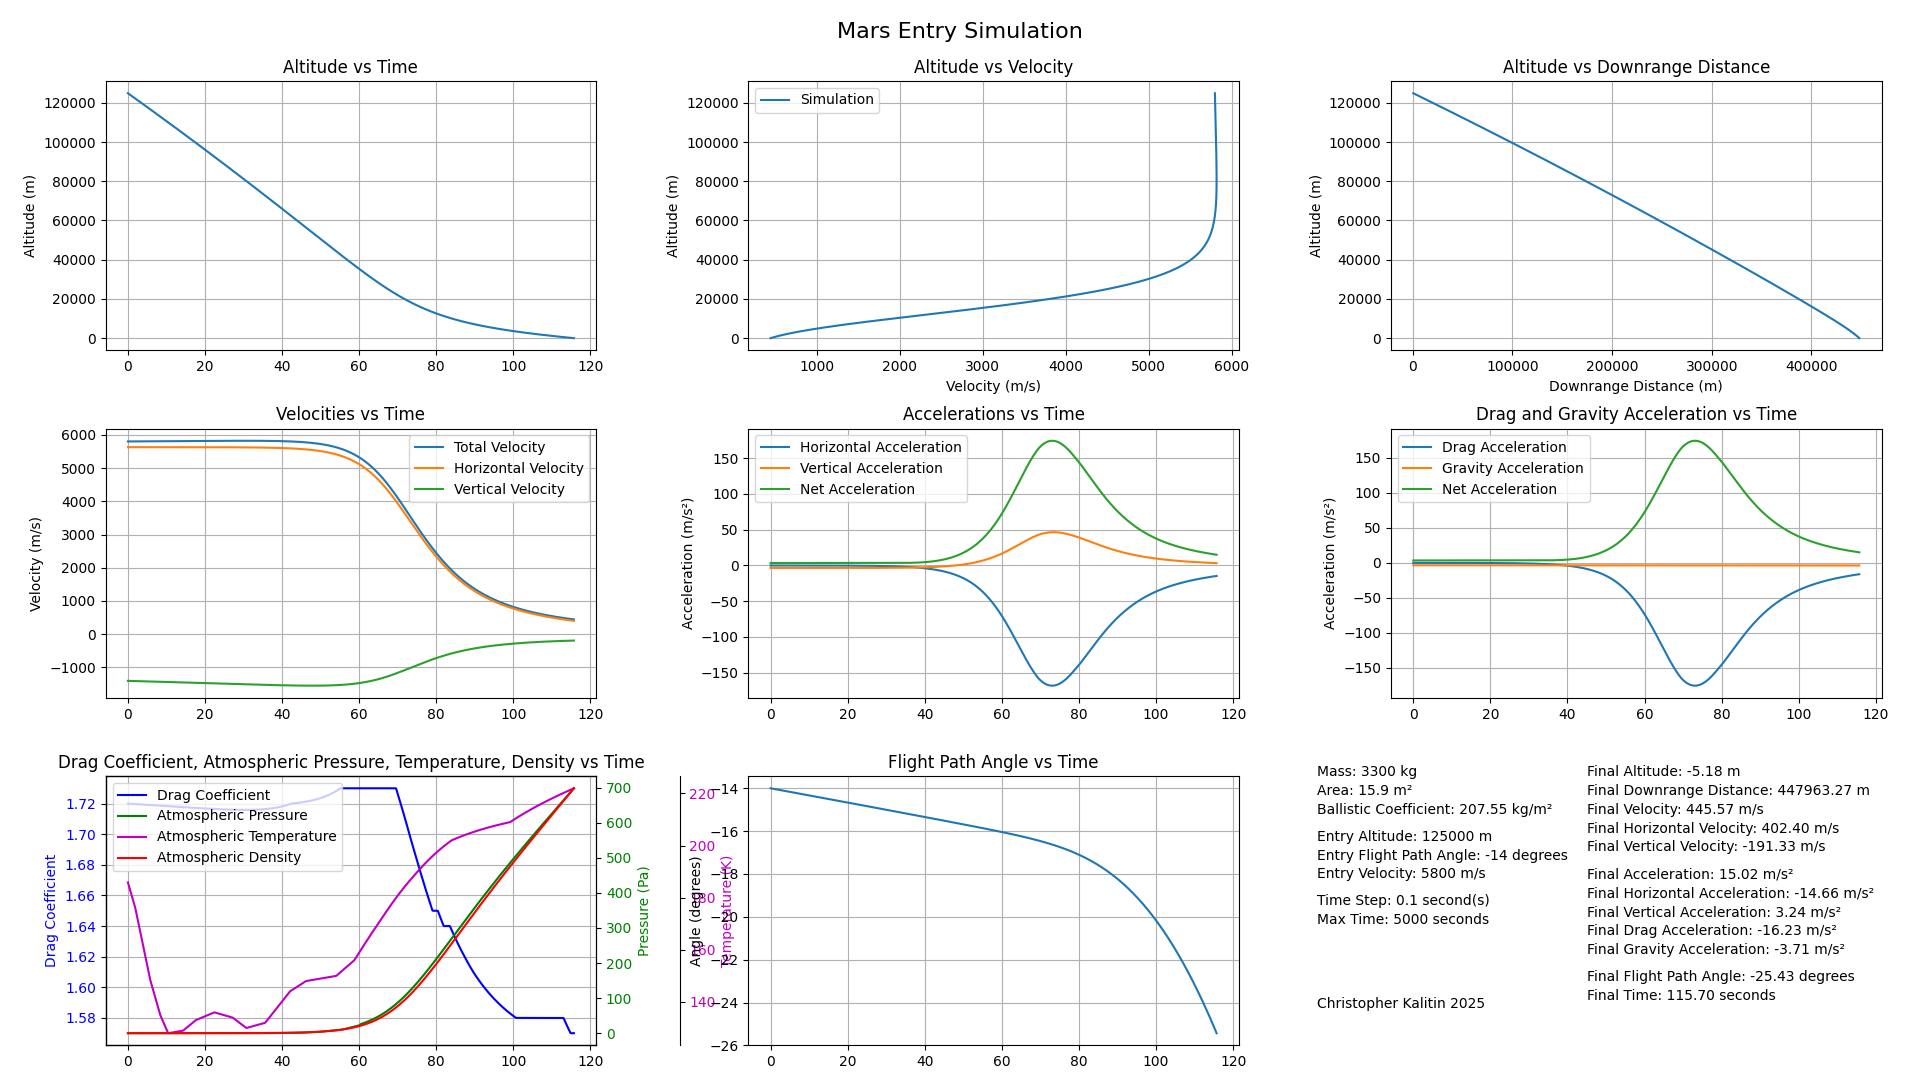
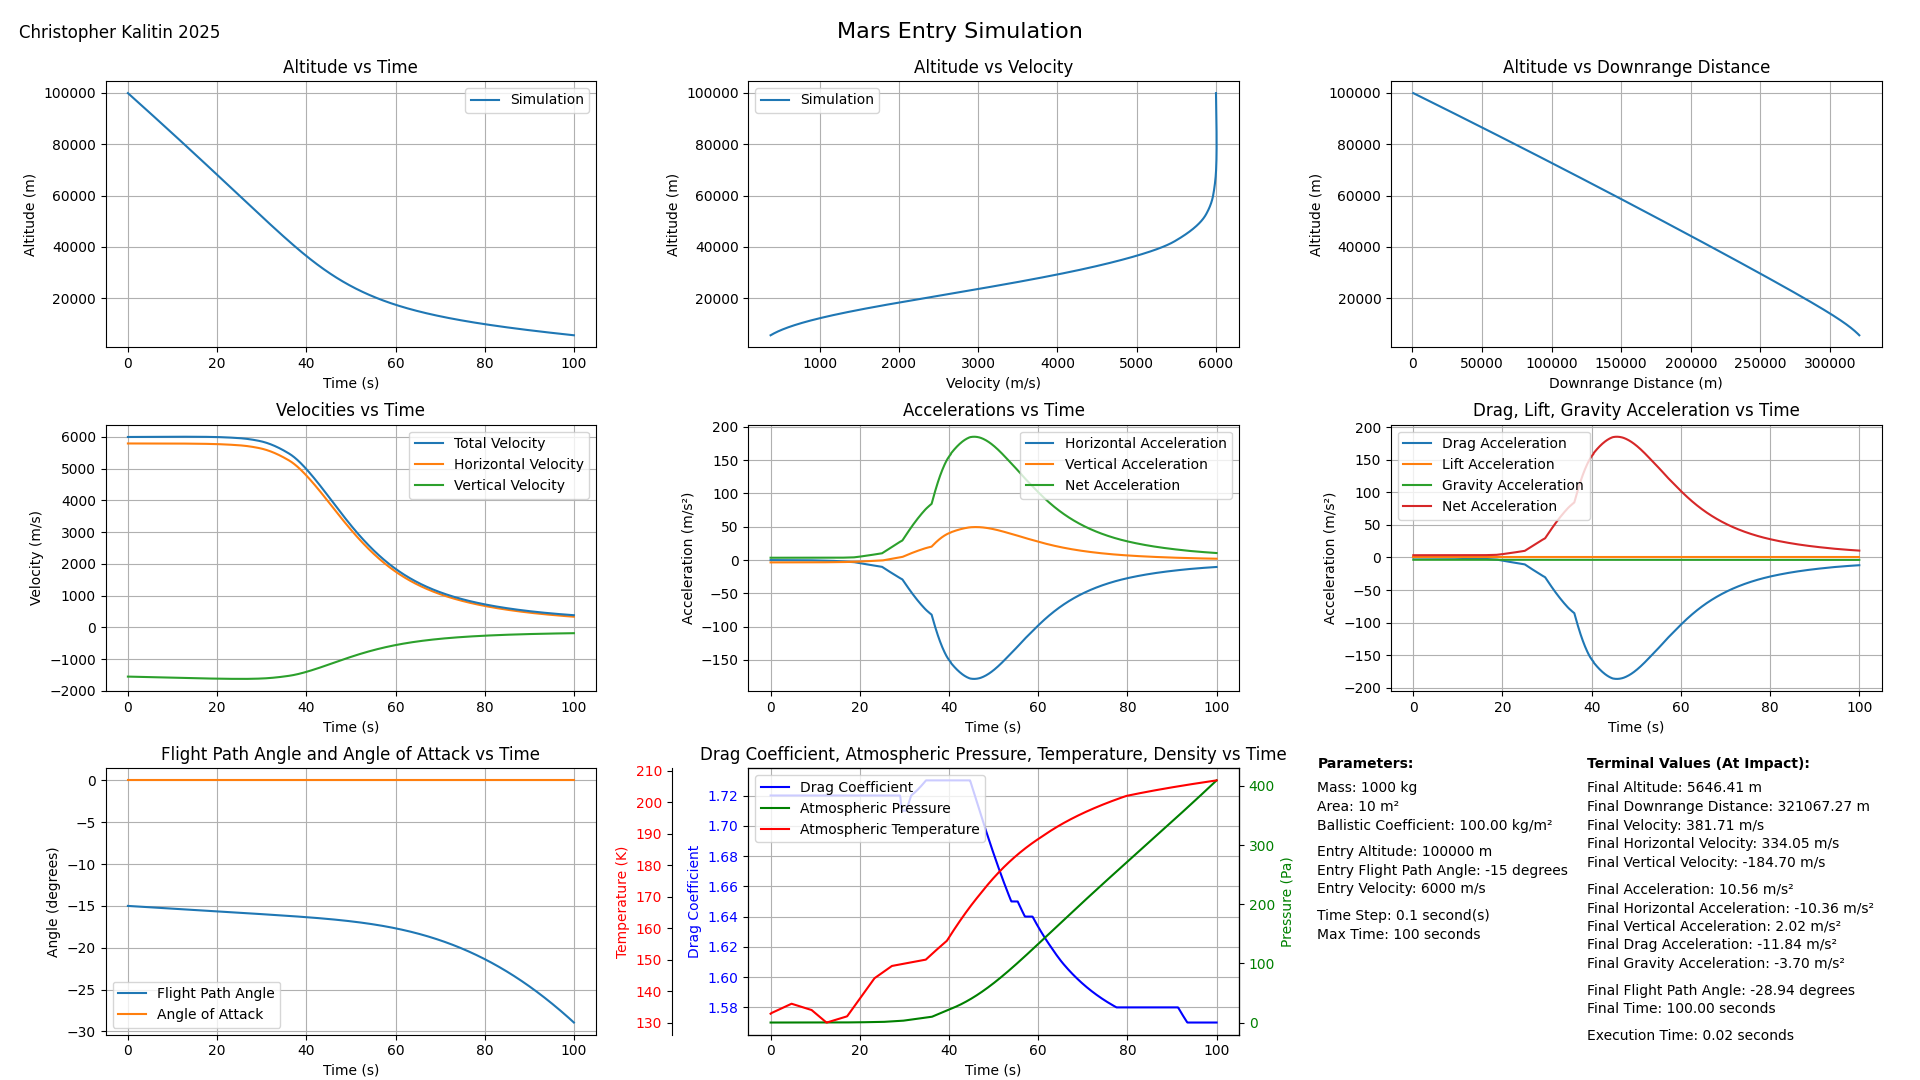
default simulation

diff --git a/Project/sim.py b/Project/sim.py
@@ -347,3 +347,20 @@ def plot(data, title="Mars Entry Simulation", filename='mars_entry_simulation.pn
     plt.savefig(filename)
     if show: plt.show()
     plt.close()
+    
+# example with BC of 100
+
+data = simulate(
+    time_step=0.1,
+    time_max=100,
+    mass=1000,
+    area=10,
+    aoa=0,
+    entry_altitude=100000,
+    entry_flight_path_angle=-15,
+    entry_velocity=6000,
+    verbose=False
+)
+
+# plot it
+plot(data, title="Mars Entry Simulation", filename='mars_entry_simulation.png', show=True)
